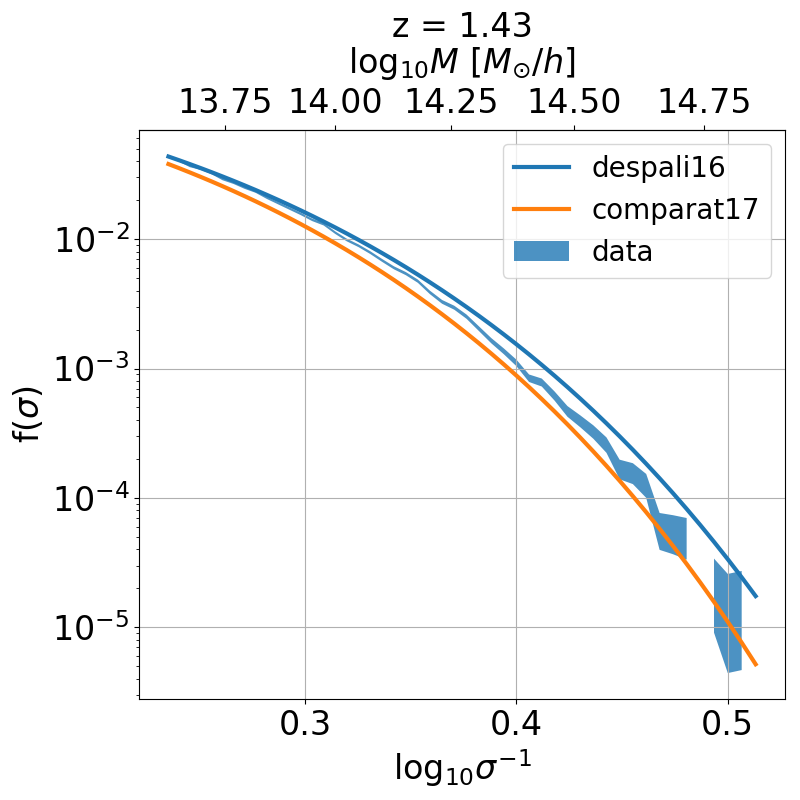
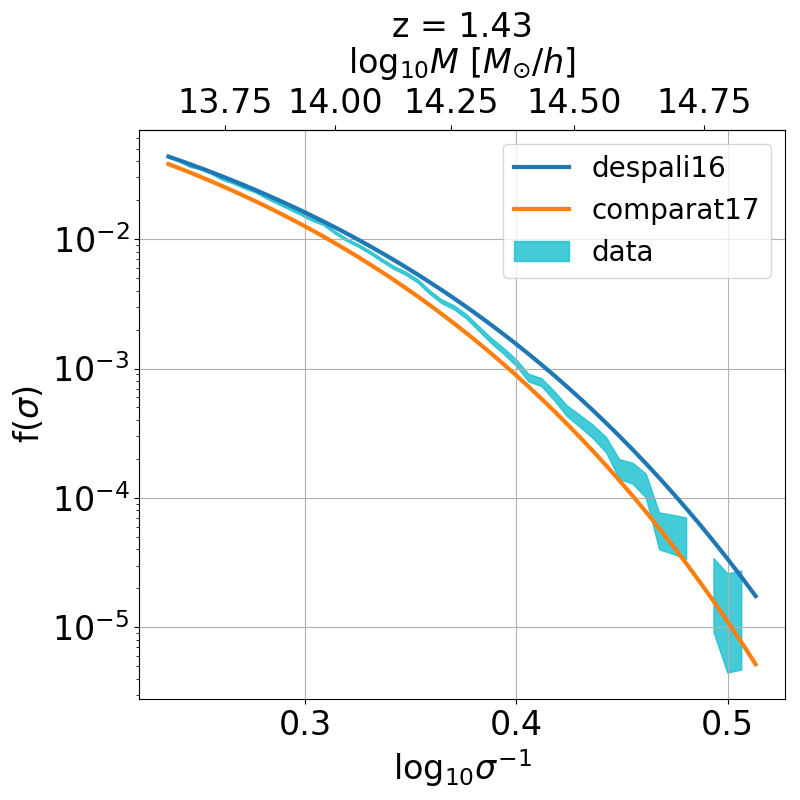
fixing colors in example plot

diff --git a/compute_MF_example.py b/compute_MF_example.py
@@ -65,7 +65,7 @@ outf = os.path.join(mydir,'figures','HMD_z_%.3f_MF.png'%(z_snap))
 
 fig,ax = plt.subplots(figsize=(8,8))
 x = np.log10(1/sigma)
-ax.fill_between(x,f-ferr,f+ferr,label='data',alpha=0.8)
+ax.fill_between(x,f-ferr,f+ferr,label='data',alpha=0.8,color='C9')
 ax.plot(x,mf_tinker,label='tinker08',lw=3)
 ax.plot(x,mf_despali,label='despali16',lw=3)
 ax.plot(x,mf_comparat,label='comparat17',lw=3)
